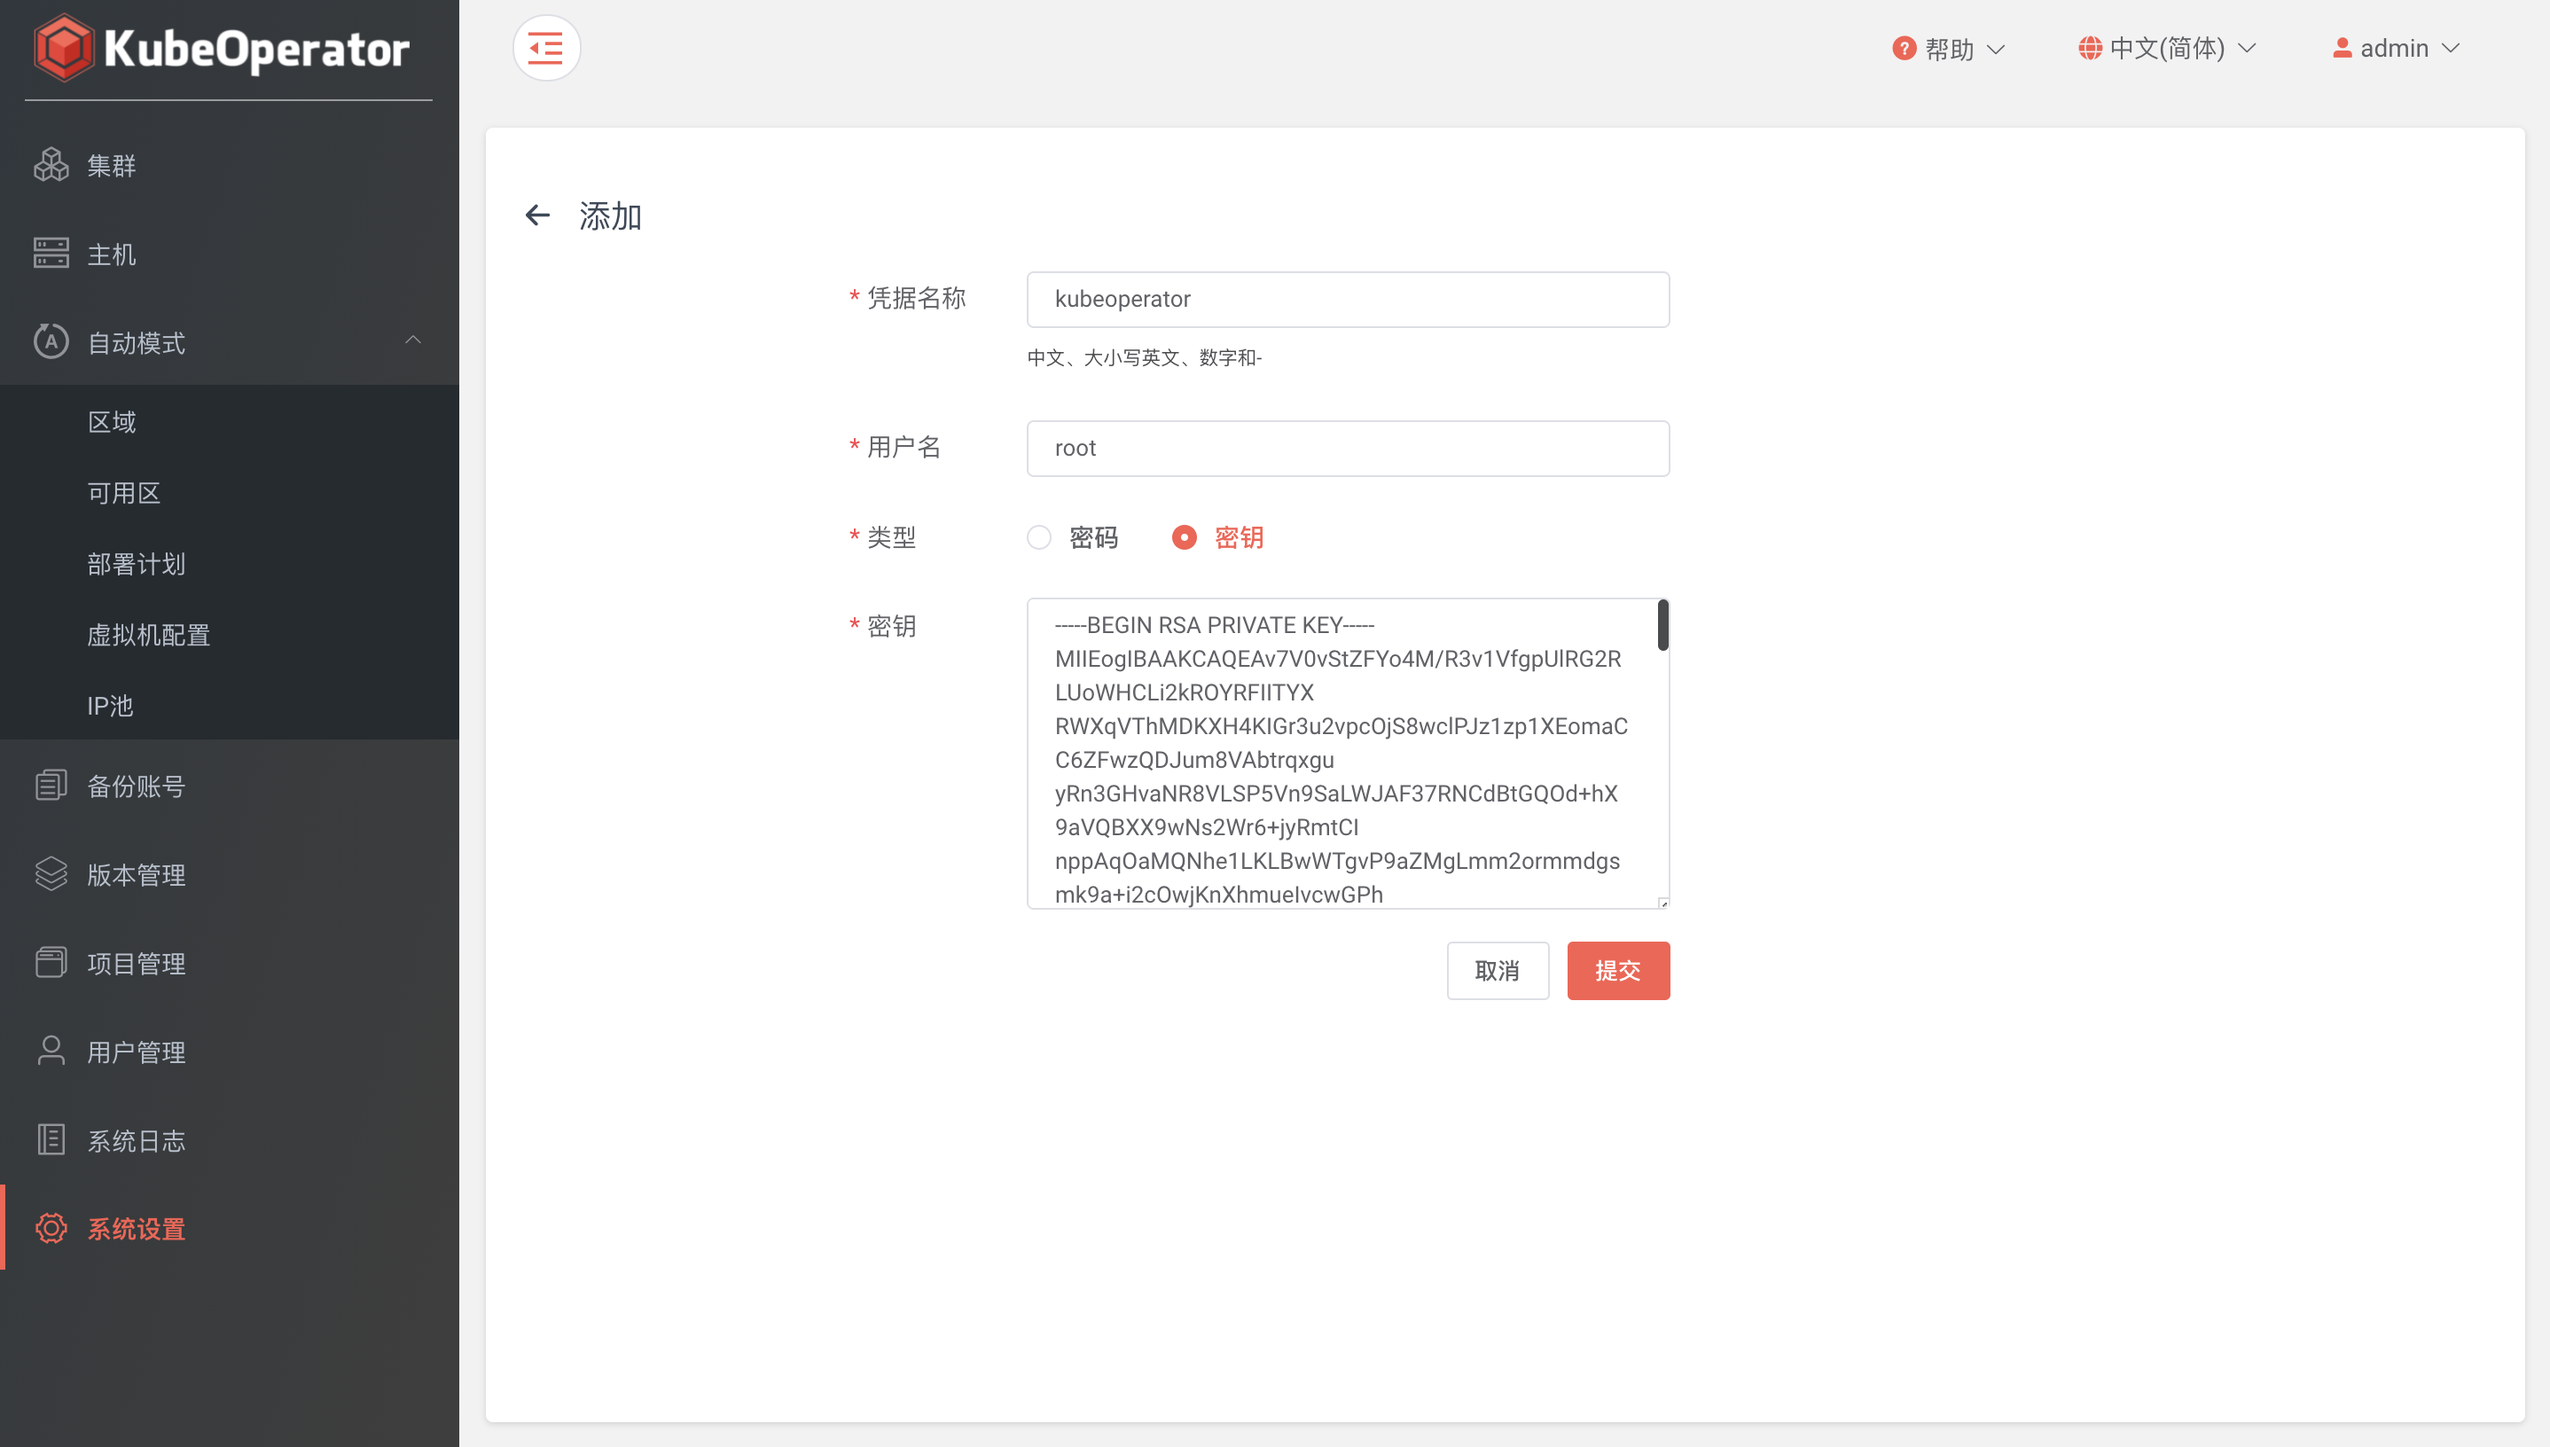
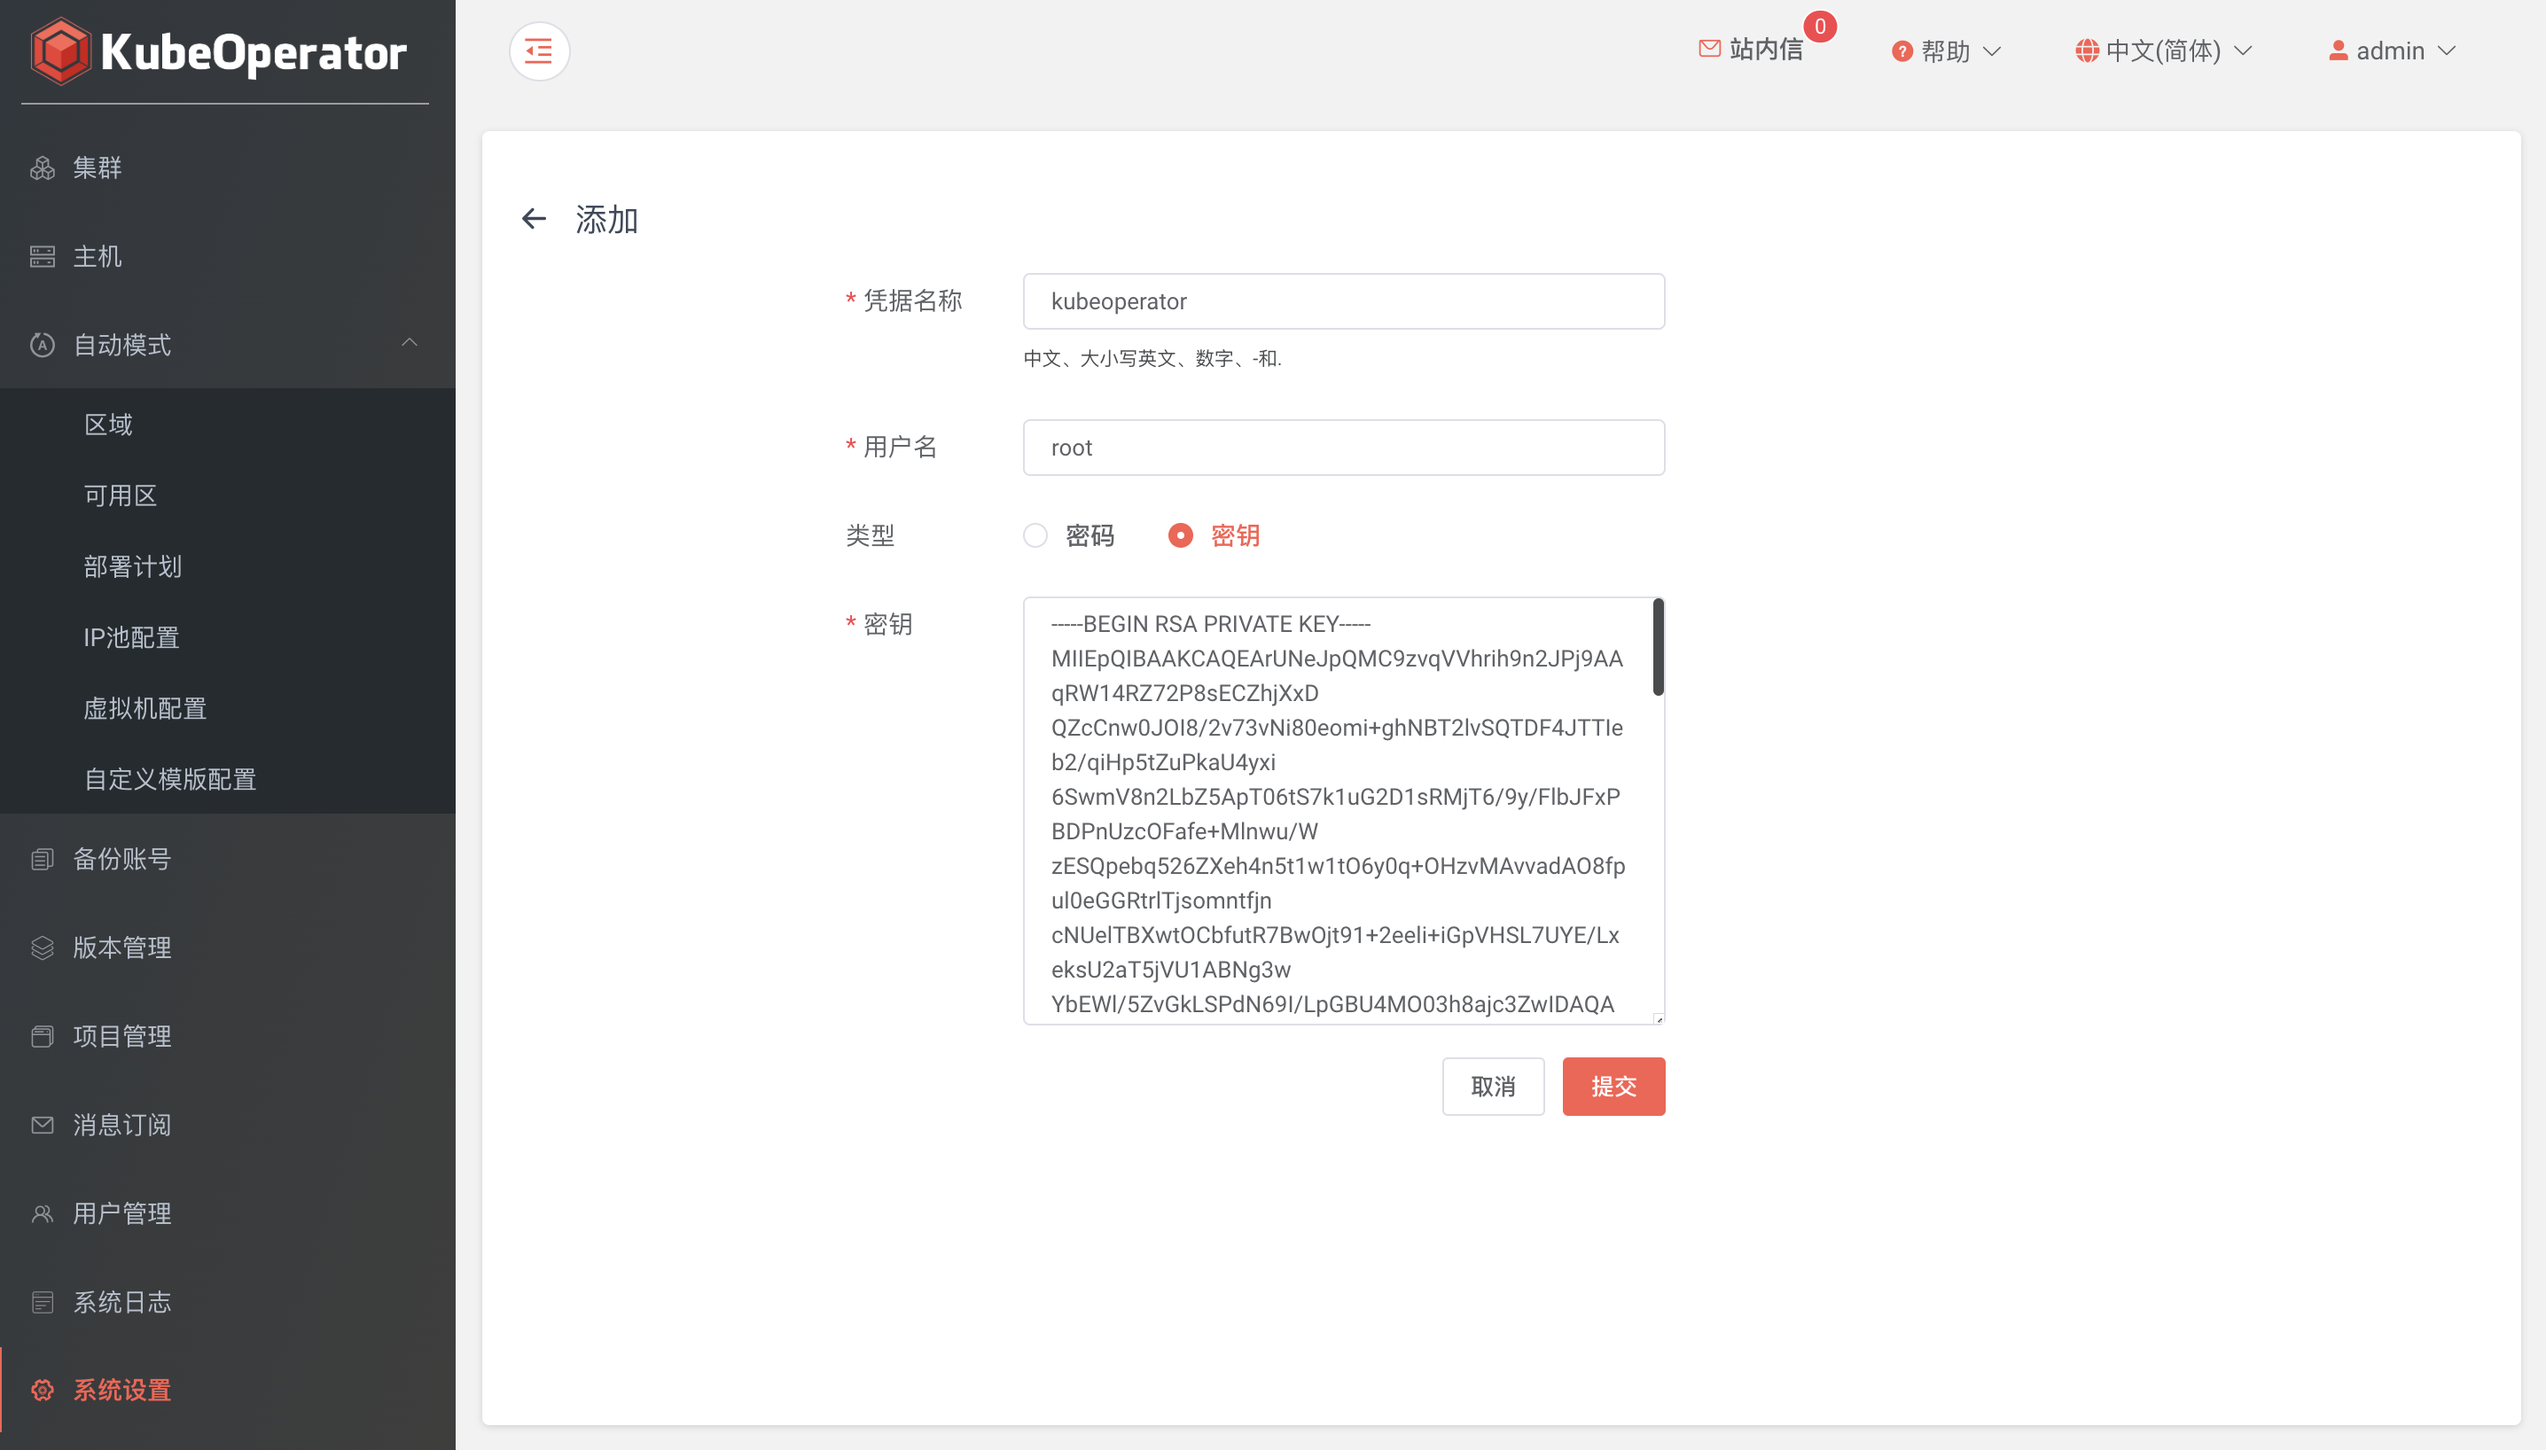
docs: 系统设置

diff --git a/docs/user_manual/system_management.md b/docs/user_manual/system_management.md
@@ -1,9 +1,9 @@
 ### 仓库
 
 !!! warning ""
-    - 仓库协议: 支持 http 和 https
-    - 仓库 IP: 默认为部署 KubeOperator 的服务器 IP（将使用 IP:8081 来访问 nexus 仓库）
-    - CPU架构: 支持 x86_64 和 arm64
+    - CPU 架构: 支持 x86_64 和 aarch64
+    - 协议: 支持 http 和 https（需手动启用）
+    - 地址: 默认为部署 KubeOperator 的服务器 IP（将使用 IP:8081 来访问 nexus 仓库）
 
 #### 端口
 
@@ -45,7 +45,7 @@
         - docker tag nginx:alpine ip:8083/nginx:alpine
         - docker push ip:8083/nginx:alpine
 
-![system](../img/user_manual/system_management/registry.png)
+![registry](../img/user_manual/system_management/registry.png)
 
 !!! warning "注意"
     如果部署K8S集群时需要K8S节点采用 x86_64 和 arm64 混合部署，则需要添加两个不同CPU架构的仓库
@@ -59,7 +59,7 @@
 
 !!! warning ""
     - 凭据为 KubeOperator 连接主机资产的凭证。支持添加 password 和 privatekey 两种方式的凭据
-    - 系统会初始化名称为 kubeoperator 的凭据作为自动模式所创建服务器的密码，默认密码为 KubeOperator@2019
+    - 系统会初始化名称为 kubeoperator 的凭据（自动模式默认模版创建服务器的密码），默认密码为: KubeOperator@2019
 
 !!! warning "密钥"
     - 1、在 KubeOperator 主机通过 ssh-keygen 命令生成 id_rsa 和 id_rsa.pub 密钥对
@@ -73,13 +73,46 @@
 ### NTP
 
 !!! warning ""
-    - 时间同步服务器。可以使用自建或公共 NTP Server
+    - 支持配置多个 NTP 服务器地址
+    - 支持手动启用或禁用 NTP 服务器
     
-![system](../img/user_manual/system_management/ntp.png)
+![ntp](../img/user_manual/system_management/ntp.png)
 
-### 邮箱
+### Dashboard
 
 !!! warning ""
-    电子邮件服务器用于向重置密码和消息中心开启邮件功能的用户发送邮件
+    此处为 admin 用户登录凭据，需要和 Dashboard 用户管理中设置的密码保持一致。
 
-![email](../img/user_manual/system_management/email-1.png)
+### LDAP
+
+!!! warning ""
+    LDAP 支持 使用 LADP 与 Windows AD 的用户作为 KubeOperator 登录用户。
+
+!!! warning "选项说明"
+    | name        | explain                                  |
+    | :---------- | :----------------------------------------|
+    | 地址         | serverurl                               |
+    | 端口         | 389                                     |
+    | 用户名       | CN=account,CN=Users,DC=ko,DC=com         |
+    | 密码         | ********                                |
+    | 用户过滤 DN   | dc=kubeoperator,dc=com                  |
+    | 用户过滤器    | ((objectClass=organizationalPerson))    |
+    | 用户属性映射  | {"Name": "cn", "Email": "mail"}          |
+
+### 消息
+
+!!! warning ""
+    必须设置才能使用与消息订阅相关的功能
+
+!!! warning "邮箱"
+    | 名称 | 示例 | 备注 |
+    | ---------- | ---------------- | ---------------------------------- |
+    | SMTP地址   | smtp.qq.com      | 服务商提供的 smtp 服务器             |
+    | 端口       | 25               | 通常是 `25`                         |
+    | 用户名     | 296015668@qq.com | 通常是 `user@domain.com`            |
+    | 密码       | **************** | 每次 `测试连接` 都需要重新输入密码    |
+    | 测试用户    | 296015668@qq.com | `测试连接` 必须要输入                |
+
+!!! warning ""
+    - 企业微信: [企业微信基本概念](https://developer.work.weixin.qq.com/document/path/90665)
+    - 钉钉: [钉钉机器人消息发送设置](https://open.dingtalk.com/document/group/assign-a-webhook-url-to-an-internal-chatbot)

diff --git a/docs/quick_start/system_settings.md b/docs/quick_start/system_settings.md
@@ -1,21 +1,36 @@
-## 系统设置
-
-!!! info ""
-    * 仓库协议: 支持 http 和 https，默认 http
-    * 仓库 IP: 默认为部署 KubeOperator 的服务器 IP。将使用该 IP 来访问 nexus 仓库
-    * CPU 架构: 支持 x86_64 和 arm64 ，即两种不同 CPU 架构的仓库
+### 仓库
 
 !!! warning ""
-    如果部署 Kubernetes 集群时需要 K8S 节点采用 x86_64 和 arm64 混合部署，则需要添加两个不同 CPU 架构的仓库
+    - CPU 架构: 支持 x86_64 和 aarch64
+    - 协议: 支持 http 和 https（需手动启用）
+    - 地址: 默认为部署 KubeOperator 的服务器 IP（将使用 IP:8081 来访问 nexus 仓库）
 
 ![system](../img/user_manual/system_management/registry.png)
 
-!!! info ""
-    手动模式创建集群，需要提前设置好主机凭据
+### 凭据
+
+!!! warning ""
+    - 凭据为 KubeOperator 连接主机资产的凭证。支持添加 password 和 privatekey 两种方式的凭据
+    - 系统会初始化名称为 kubeoperator 的凭据（自动模式默认模版创建服务器的密码），默认密码为: KubeOperator@2019
+
+!!! warning "密钥"
+    - 1、在 KubeOperator 主机通过 ssh-keygen 命令生成 id_rsa 和 id_rsa.pub 密钥对
+    - 2、将 id_rsa.pub 公钥内容添加到目标主机 .ssh/authorized_keys 文件中 
+    - 3、将 id_rsa 私钥内容添加到凭据密钥框中
 
 ![password](../img/user_manual/system_management/key-1.png)
 
-!!! info ""
-    NTP Server: 时间同步服务器，默认可以为空。也可以自建或使用公共 NTP Server
+![key](../img/user_manual/system_management/key-2.png)
 
-![system](../img/user_manual/system_management/ntp.png)
+### NTP
+
+!!! warning ""
+    - 支持配置多个 NTP 服务器地址
+    - 支持手动启用或禁用 NTP 服务器
+    
+![ntp](../img/user_manual/system_management/ntp.png)
+
+### Dashboard
+
+!!! warning ""
+    此处为 admin 用户登录凭据，需要和 Dashboard 用户管理中设置的密码保持一致。
